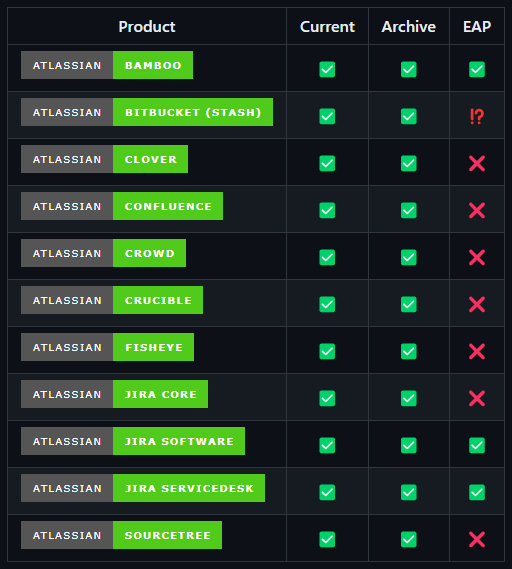
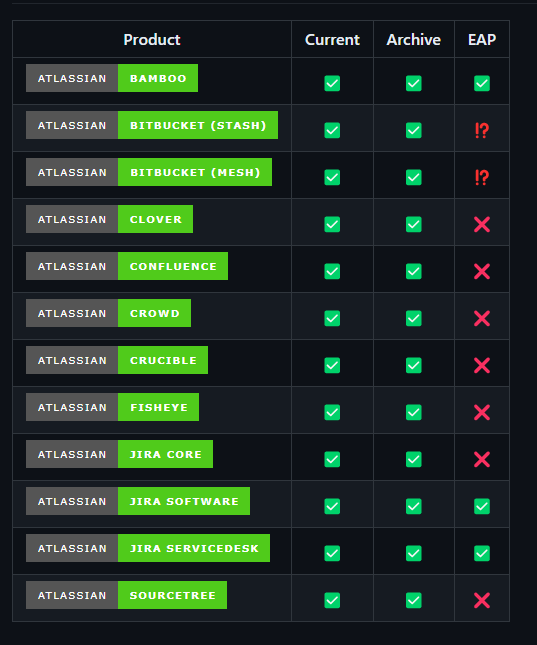
1.0.1.0
new release

diff --git a/src/DonloaderService.cs b/src/DonloaderService.cs
@@ -103,7 +103,7 @@ namespace EpicMorg.Atlassian.Downloader
         public async Task StartAsync(CancellationToken cancellationToken)
         {
             SetConsoleTitle();
-            if (options.Version)
+            if (options.Version || string.IsNullOrWhiteSpace(options.OutputDir))
             {
                 ShowVersionInfo();
             }
@@ -119,7 +119,7 @@ namespace EpicMorg.Atlassian.Downloader
                     {
                         return;
                     }
-                    var (json, versions) = await this.GetJson(feedUrl, cancellationToken).ConfigureAwait(false);
+                    var (json, versions) = await this.GetJson(feedUrl, options.ProductVersion, cancellationToken).ConfigureAwait(false);
 
                     switch (options.Action)
                     {
@@ -182,7 +182,7 @@ namespace EpicMorg.Atlassian.Downloader
             Console.ResetColor();
         }
 
-        private async Task<(string json, IDictionary<string, ResponseItem[]> versions)> GetJson(string feedUrl, CancellationToken cancellationToken)
+        private async Task<(string json, IDictionary<string, ResponseItem[]> versions)> GetJson(string feedUrl, string? productVersion = null, CancellationToken cancellationToken = default)
         {
             var atlassianJson = await client.GetStringAsync(feedUrl, cancellationToken).ConfigureAwait(false);
             var json = atlassianJson.Trim()["downloads(".Length..^1];
@@ -192,7 +192,10 @@ namespace EpicMorg.Atlassian.Downloader
                 PropertyNameCaseInsensitive = true
             });
             logger.LogDebug("Found {0} releases", parsed.Length);
-            var versions = parsed.GroupBy(a => a.Version).ToDictionary(a => a.Key, a => a.ToArray());
+            var versions = parsed
+                .GroupBy(a => a.Version)
+                .Where(a => productVersion is null || a.Key == productVersion)
+                .ToDictionary(a => a.Key, a => a.ToArray());
             logger.LogDebug("Found {0} releases", versions.Count);
             return (json, versions);
         }
@@ -211,6 +214,7 @@ namespace EpicMorg.Atlassian.Downloader
                 "https://my.atlassian.com/download/feeds/archived/jira-software.json",
                 "https://my.atlassian.com/download/feeds/archived/jira.json",
                 "https://my.atlassian.com/download/feeds/archived/stash.json",
+                "https://my.atlassian.com/download/feeds/archived/mesh.json",
 
                 "https://my.atlassian.com/download/feeds/current/bamboo.json",
                 "https://my.atlassian.com/download/feeds/current/clover.json",
@@ -222,12 +226,14 @@ namespace EpicMorg.Atlassian.Downloader
                 "https://my.atlassian.com/download/feeds/current/jira-servicedesk.json",
                 "https://my.atlassian.com/download/feeds/current/jira-software.json",
                 "https://my.atlassian.com/download/feeds/current/stash.json",
+                "https://my.atlassian.com/download/feeds/current/mesh.json",
 
                 "https://my.atlassian.com/download/feeds/eap/bamboo.json",
                 "https://my.atlassian.com/download/feeds/eap/confluence.json",
                 "https://my.atlassian.com/download/feeds/eap/jira.json",
                 "https://my.atlassian.com/download/feeds/eap/jira-servicedesk.json",
                 "https://my.atlassian.com/download/feeds/eap/stash.json",
+                "https://my.atlassian.com/download/feeds/eap/mesh.json",
 				
 				//https://raw.githubusercontent.com/EpicMorg/atlassian-json/master/json-backups/archived/sourcetree.json
 				"https://raw.githack.com/EpicMorg/atlassian-json/master/json-backups/archived/sourcetree.json",

diff --git a/src/Program.cs b/src/Program.cs
@@ -6,6 +6,8 @@ using Microsoft.Extensions.Logging;
 using Serilog;
 
 using System;
+using System.IO;
+using System.Reflection;
 using System.Threading.Tasks;
 
 namespace EpicMorg.Atlassian.Downloader
@@ -19,13 +21,14 @@ namespace EpicMorg.Atlassian.Downloader
         /// <param name="OutputDir">Override output directory to download</param>
         /// <param name="customFeed">Override URIs to import</param>
         /// <param name="Version">Show credits banner</param>
-        static async Task Main(string OutputDir = "atlassian", Uri[] customFeed = null, DownloadAction Action = DownloadAction.Download, bool Version = false) => await
+        /// <param name="productVersion">Override target version to download some product. Advice: Use it with "customFeed".</param>
+        static async Task Main(string OutputDir, Uri[] customFeed = null, DownloadAction Action = DownloadAction.Download, bool Version = false, string productVersion = null) => await
             Host
                 .CreateDefaultBuilder()
                 .ConfigureHostConfiguration(configHost => configHost.AddEnvironmentVariables())
                 .ConfigureAppConfiguration((ctx, configuration) =>
                     configuration
-                        .SetBasePath(Environment.CurrentDirectory)
+                        .SetBasePath(Path.GetDirectoryName(Assembly.GetExecutingAssembly().Location))
                         .AddJsonFile("appsettings.json", optional: false, reloadOnChange: true)
                         .AddJsonFile($"appsettings.{ctx.HostingEnvironment.EnvironmentName}.json", optional: true, reloadOnChange: true)
                         .AddEnvironmentVariables())
@@ -41,7 +44,7 @@ namespace EpicMorg.Atlassian.Downloader
                                 .AddSerilog(dispose: true);
                        })
                        .AddHostedService<DonloaderService>()
-                       .AddSingleton(new DownloaderOptions(OutputDir, customFeed, Action, Version))
+                       .AddSingleton(new DownloaderOptions(OutputDir, customFeed, Action, Version, productVersion))
                        .AddHttpClient())
                 .RunConsoleAsync()
                 .ConfigureAwait(false);

diff --git a/src/Models/DownloaderOptions.cs b/src/Models/DownloaderOptions.cs
@@ -2,5 +2,5 @@
 
 namespace EpicMorg.Atlassian.Downloader
 {
-    public record DownloaderOptions(string OutputDir, Uri[] CustomFeed, DownloadAction Action,bool Version) { }
+    public record DownloaderOptions(string OutputDir, Uri[] CustomFeed, DownloadAction Action,bool Version, string ProductVersion) { }
 }

diff --git a/README.md b/README.md
@@ -111,6 +111,7 @@ The following built-in themes are available, provided by `Serilog.Sinks.Console`
 |-------------|:-------------:|:-------------:|:-------------:|
 | [![Product](https://img.shields.io/static/v1?label=Atlassian&message=Bamboo&color=bright%20green&style=for-the-badge)](https://www.atlassian.com/software/bamboo) | :white_check_mark: | :white_check_mark: | :white_check_mark: |
 | [![Product](https://img.shields.io/static/v1?label=Atlassian&message=Bitbucket%20(Stash)&color=bright%20green&style=for-the-badge)](https://www.atlassian.com/software/bitbucket) | :white_check_mark: | :white_check_mark: | :interrobang: |
+| [![Product](https://img.shields.io/static/v1?label=Atlassian&message=Bitbucket%20(Mesh)&color=bright%20green&style=for-the-badge)](https://confluence.atlassian.com/bitbucketserver/bitbucket-mesh-compatibility-matrix-1127254859.html) | :white_check_mark: | :white_check_mark: | :interrobang: |
 | [![Product](https://img.shields.io/static/v1?label=Atlassian&message=Clover&color=bright%20green&style=for-the-badge)](https://www.atlassian.com/software/clover) | :white_check_mark: | :white_check_mark: | :x: |
 | [![Product](https://img.shields.io/static/v1?label=Atlassian&message=Confluence&color=bright%20green&style=for-the-badge)](https://www.atlassian.com/software/confluence) | :white_check_mark: | :white_check_mark: | :x: |
 | [![Product](https://img.shields.io/static/v1?label=Atlassian&message=Crowd&color=bright%20green&style=for-the-badge)](https://www.atlassian.com/software/crowd) | :white_check_mark: | :white_check_mark: | :x: |

diff --git a/CHANGELOG.md b/CHANGELOG.md
@@ -1,6 +1,7 @@
 # Atlassian Downloader - Changelog
 
-* `1.0.0.9` - switched to `dontet7.0`, updated deps.
+* `1.0.1.0` - added support of `Atlassian Bitbucket (Mesh)` product, updated deps, fixed `Chocolatey` support and start logic.
+* `1.0.0.9` - updated deps.
 * `1.0.0.8` - switched to `dontet6.0`, updated deps.
 * `1.0.0.7` - added `unofficial support`  of `sourcetree` via automatic mirror [from github](https://github.com/EpicMorg/atlassian-json). fixed `logger` output, code improvments.
 * `1.0.0.6` - added support of `clover`. fixed broken json parsing. added new `logger`.
